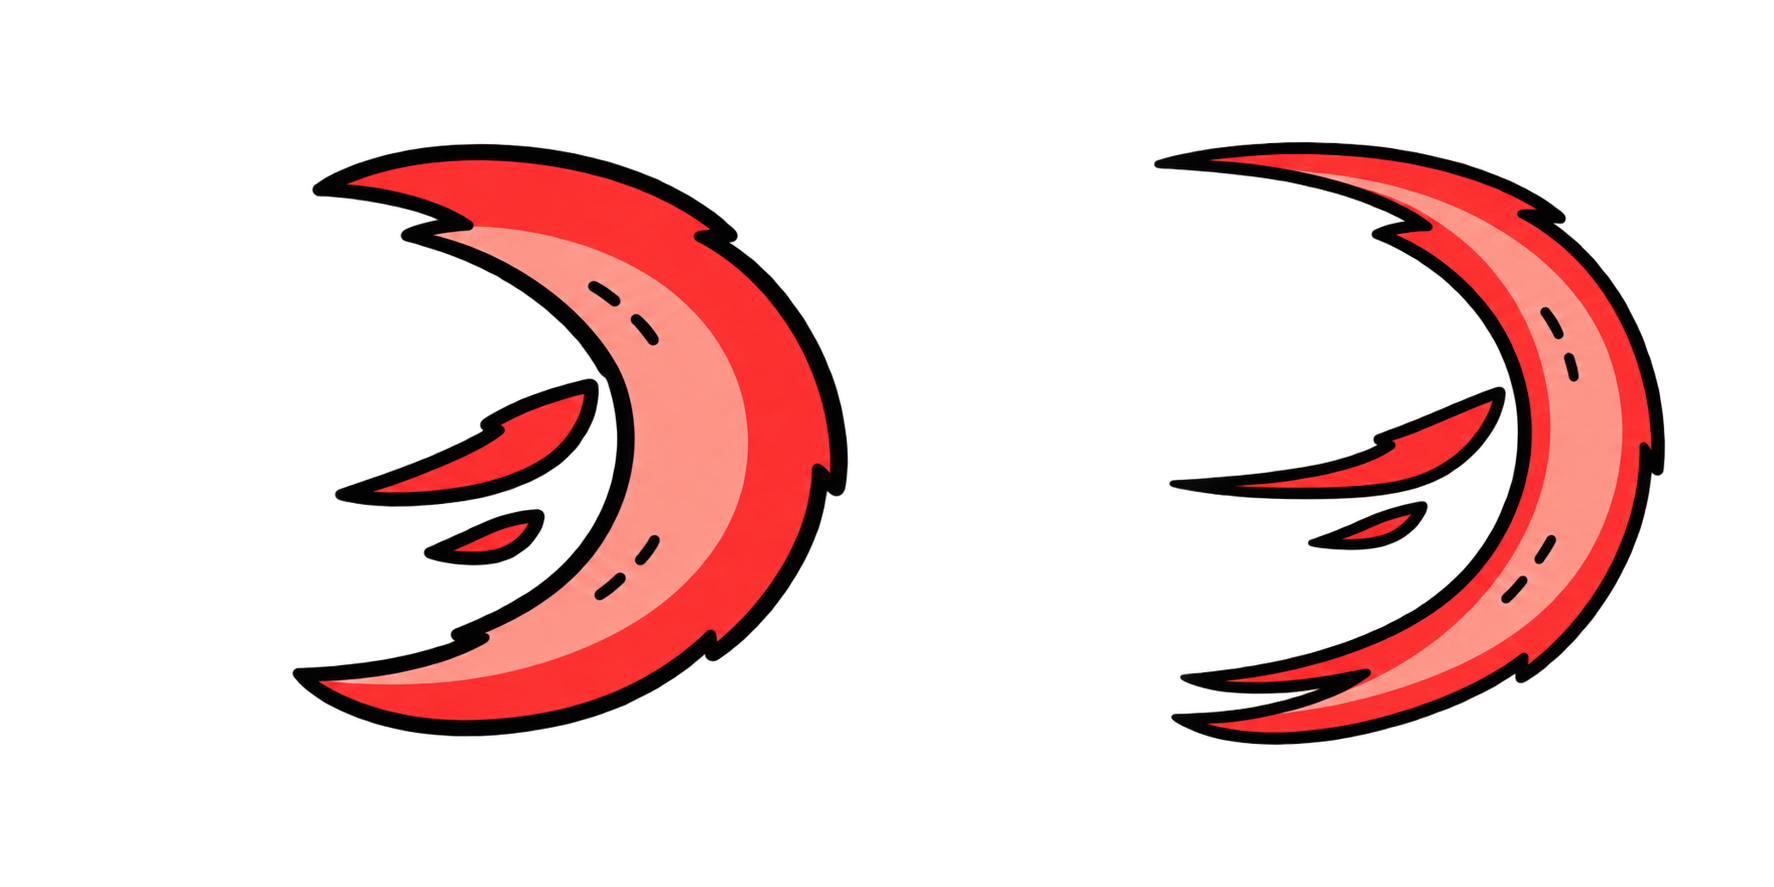
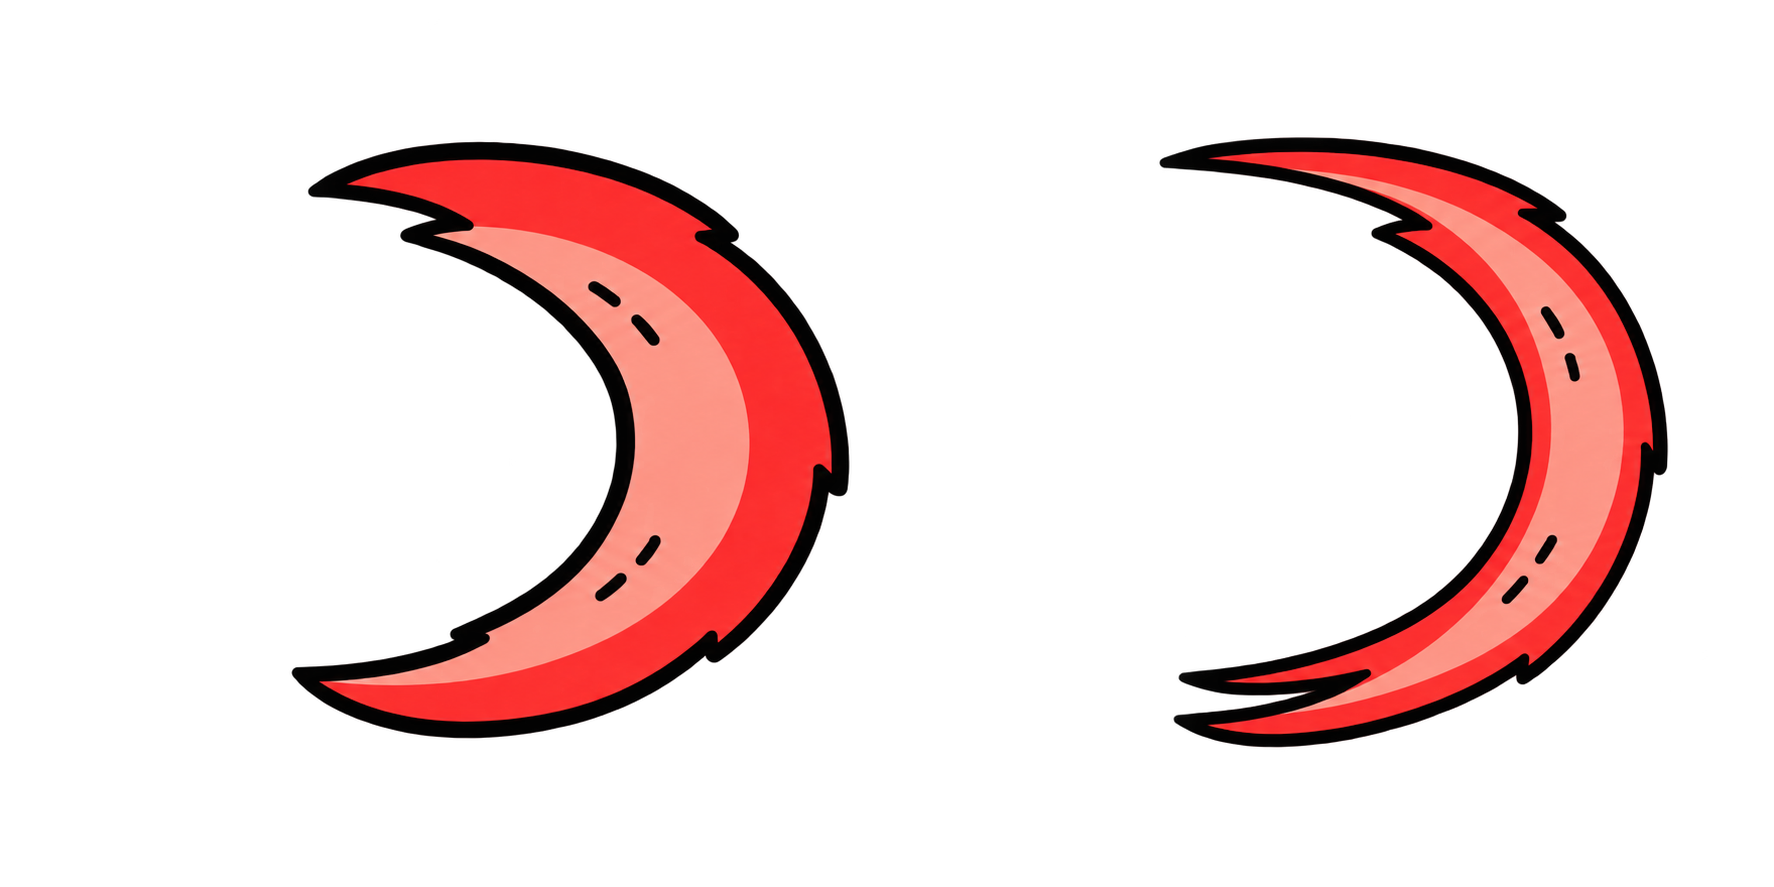
Remove detached scraps from both red sword animation frames

diff --git a/Documentation/UI/RED_SLASH_ART.md b/Documentation/UI/RED_SLASH_ART.md
@@ -1,5 +1,16 @@
 # 빨간검 2컷 교체
 
+## 2026-09-23 작은 조각 제거 (현재 적용본)
+
+- 내장 image_gen으로 기존 시트를 편집했다. 두 컷 안쪽의 분리된 작은 빨간 조각을 모두 제거하고 큰 검격만 남겼다.
+- 저장: `Assets/DoodleIdle/Resources/DoodleIdle/SkillRedSlash.png` (1774×887 RGBA, 투명 배경, 887×887 두 칸). 기존 리소스 경로와 importer GUID, 공격 동작은 유지한다.
+- 생성 원본: `C:/Users/user/.codex/generated_images/01a0c219-a594-7ff2-9400-6a0aa68d422f/exec-d278d0e3-103d-4d22-946d-80609a2376e8.png`.
+- 최종 편집 프롬프트:
+
+> Use case: precise-object-edit. Edit target: attached transparent two-frame red sword-energy sprite atlas. Remove ONLY the detached small red scraps/streaks floating inside the open concave side of BOTH large crescents. Each cell must contain exactly ONE connected large crescent sword slash with no detached fragments or particles anywhere. Preserve the two existing main crescents exactly: their right-facing ')' orientation, size, position, different animation silhouettes, red/coral fill, thick hand-drawn black outline, and internal black decorative marks. Keep the connected forked lower tip of the second main crescent. Do not redesign, mirror, shrink, recenter, or add elements. Keep TWO equal-width side-by-side square animation cells, whole atlas 2:1, same framing and generous transparent margins. Genuine transparent alpha background; no opaque background, text, grid, shadow, or glow.
+
+## 이전 생성 이력 (작은 조각 지시는 위 수정으로 대체)
+
 - 도구: 내장 image_gen (CLI/API 미사용).
 - 결과: `Assets/DoodleIdle/Resources/DoodleIdle/SkillRedSlash.png`, 2열×1행, 투명 배경. 런타임 공통 바운드/피벗으로 재생.
 - 첫 스타일 참조: PlayerWalkB.png, 구형 RedSlashA.png. 최종 수정 참조: 첫 생성 시트.
